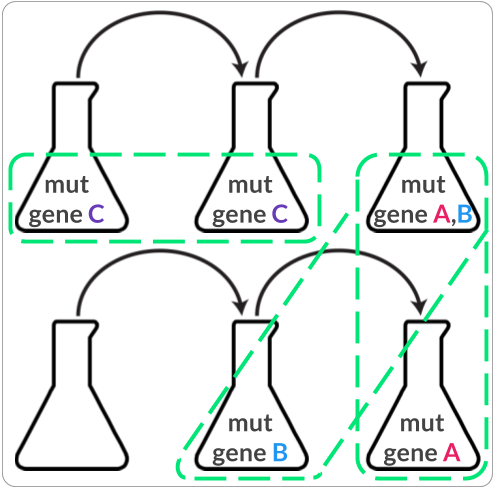
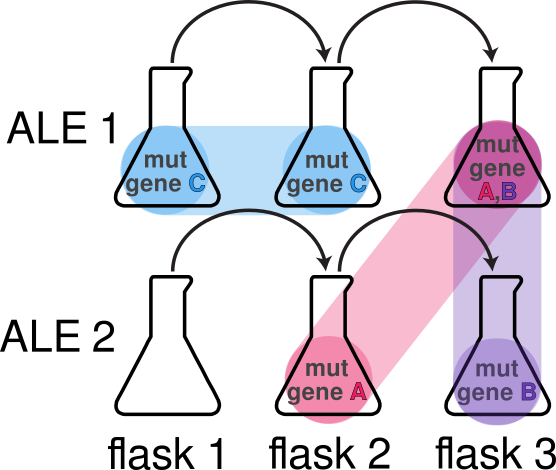
Updated buttons

diff --git a/compare/templates/compare.html b/compare/templates/compare.html
@@ -67,21 +67,34 @@
             img {
                 display: block;
                 margin: 0 auto;
+                max-width: 90%;
+                max-height: 90%;
+            }
+
+            #analysis_button {
+                border-radius: 25px;
+                border: 2px solid #999999;
+                padding: 10px;
             }
         </style>
         <div class="container">
-            <!-- Example row of columns -->
             <div class="row">
-                <div class="col-xs-6">
-                    <h2 align="center">Enrichment Mutations</h2>
-                    <a href="/compare/enrichment?ale_experiment_id={{ ale_experiment_id }}"><img
-                            src="/static/enrich_mut_diag.png"></a>
-                </div>
-                <div class="col-xs-6">
-                    <h2 align="center">Fixed Mutations</h2>
-                    <a href="/compare/fixation?ale_experiment_id={{ ale_experiment_id }}"><img
-                            src="/static/fixed_mut_diag.png"></a>
-                </div>
+                <a href="/compare/enrichment?ale_experiment_id={{ ale_experiment_id }}">
+                    <div class="col-md-6">
+                        <div id="analysis_button" class="panel">
+                            <div align="center" class="huge">Enrichment Mutations</div>
+                            <img src="/static/enrich_mut_diag.png">
+                        </div>
+                    </div>
+                </a>
+                <a href="/compare/fixation?ale_experiment_id={{ ale_experiment_id }}">
+                    <div class="col-md-6">
+                        <div id="analysis_button" class="panel">
+                            <div align="center" class="huge">Fixed Mutations</div>
+                            <img src="/static/fixed_mut_diag.png">
+                        </div>
+                    </div>
+                </a>
             </div>
         </div>
         <br><br><br>

diff --git a/stats/templates/stats.html b/stats/templates/stats.html
@@ -102,7 +102,7 @@
                         <div class="pull-left">
                             <i class="fa fa-filter fa-5x"></i>
                         </div>
-                        <div style="width: 75%; text-align: right" class="pull-right">
+                        <div style="width:75%; text-align: right" class="pull-right">
                             <div class="huge">Filter</div>
                         </div>
                     </div>
@@ -114,19 +114,34 @@
         img {
             display: block;
             margin: 0 auto;
+            max-width: 90%;
+            max-height: 90%;
+        }
+
+        #analysis_button {
+            border-radius: 25px;
+            border: 2px solid #999999;
+            padding: 10px;
         }
     </style>
     <div class="container">
-        <!-- Example row of columns -->
         <div class="row">
-            <div class="col-xs-6">
-                <h2 align="center">Enrichment Mutations</h2>
-                <a href="/enrichment?ale_experiment_id={{ ale_experiment_id }}"><img src="/static/enrich_mut_diag.png"></a>
-            </div>
-            <div class="col-xs-6">
-                <h2 align="center">Fixed Mutations</h2>
-                <a href="/fixation?ale_experiment_id={{ ale_experiment_id }}"><img src="/static/fixed_mut_diag.png"></a>
-            </div>
+            <a href="/enrichment?ale_experiment_id={{ ale_experiment_id }}">
+                <div class="col-md-6">
+                    <div id="analysis_button" class="panel">
+                        <div align="center" class="huge">Enrichment Mutations</div>
+                        <img src="/static/enrich_mut_diag.png">
+                    </div>
+                </div>
+            </a>
+            <a href="/fixation?ale_experiment_id={{ ale_experiment_id }}">
+                <div class="col-md-6">
+                    <div id="analysis_button" class="panel">
+                        <div align="center" class="huge">Fixed Mutations</div>
+                        <img src="/static/fixed_mut_diag.png">
+                    </div>
+                </div>
+            </a>
         </div>
     </div>
     <br><br><br>